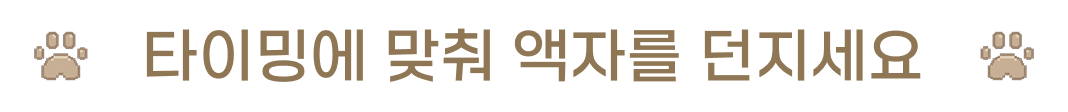
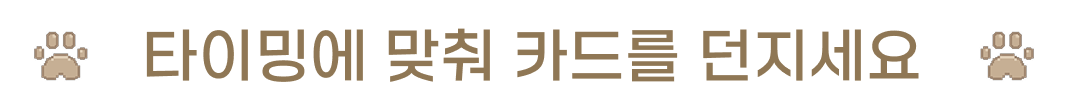
style : 포착 카드 투척 안내 문구 교체
- 투척 안내 이미지를 카드 문구가 적용된 에셋으로 교체
- 이미지 접근성 안내 문구를 실제 화면 내용과 일치하도록 수정

Changed region(s): [[0.618, 0.2679, 0.8652, 0.7232], [0.4635, 0.2411, 0.618, 0.7232]]

diff --git a/src/features/capture-photo/ui/CaptureGame.tsx b/src/features/capture-photo/ui/CaptureGame.tsx
@@ -888,7 +888,7 @@ export function CaptureGame({
       </View>
 
       <Image
-        accessibilityLabel="타이밍에 맞춰 액자를 던지세요"
+        accessibilityLabel="타이밍에 맞춰 카드를 던지세요"
         resizeMode="contain"
         source={THROW_GUIDE_IMAGE}
         style={[
